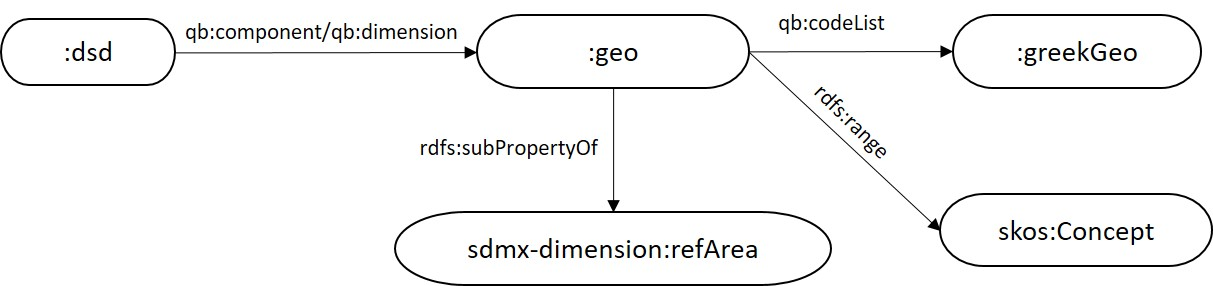
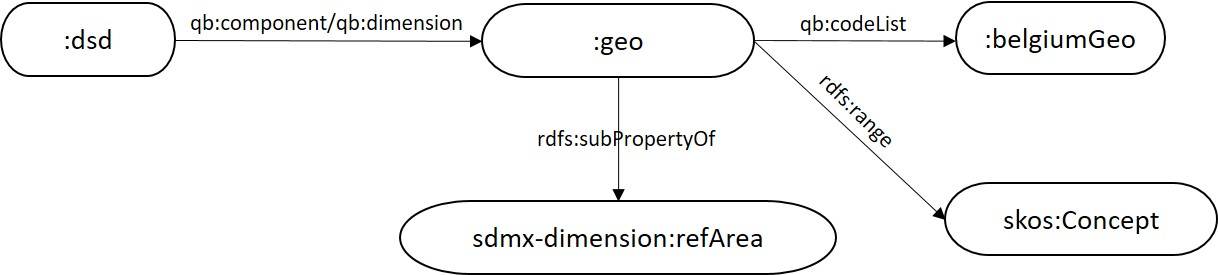
BP7 and BP8 updates

diff --git a/index.html b/index.html
@@ -671,7 +671,7 @@ John works for the National Statistical Institute of Belgium and is in charge of
 			<pre>
   :geo a qb:DimensionProperty;
          rdfs:subPropertyOf  sdmx-dimension:refArea;
-         qb:codeList :greekGeo;
+         qb:codeList :belgiumGeo;
          rdfs:range skos:Concept.   
   :dsd a qb:DataStructureDefinition;
          qb:component [qb:dimension :geo].
